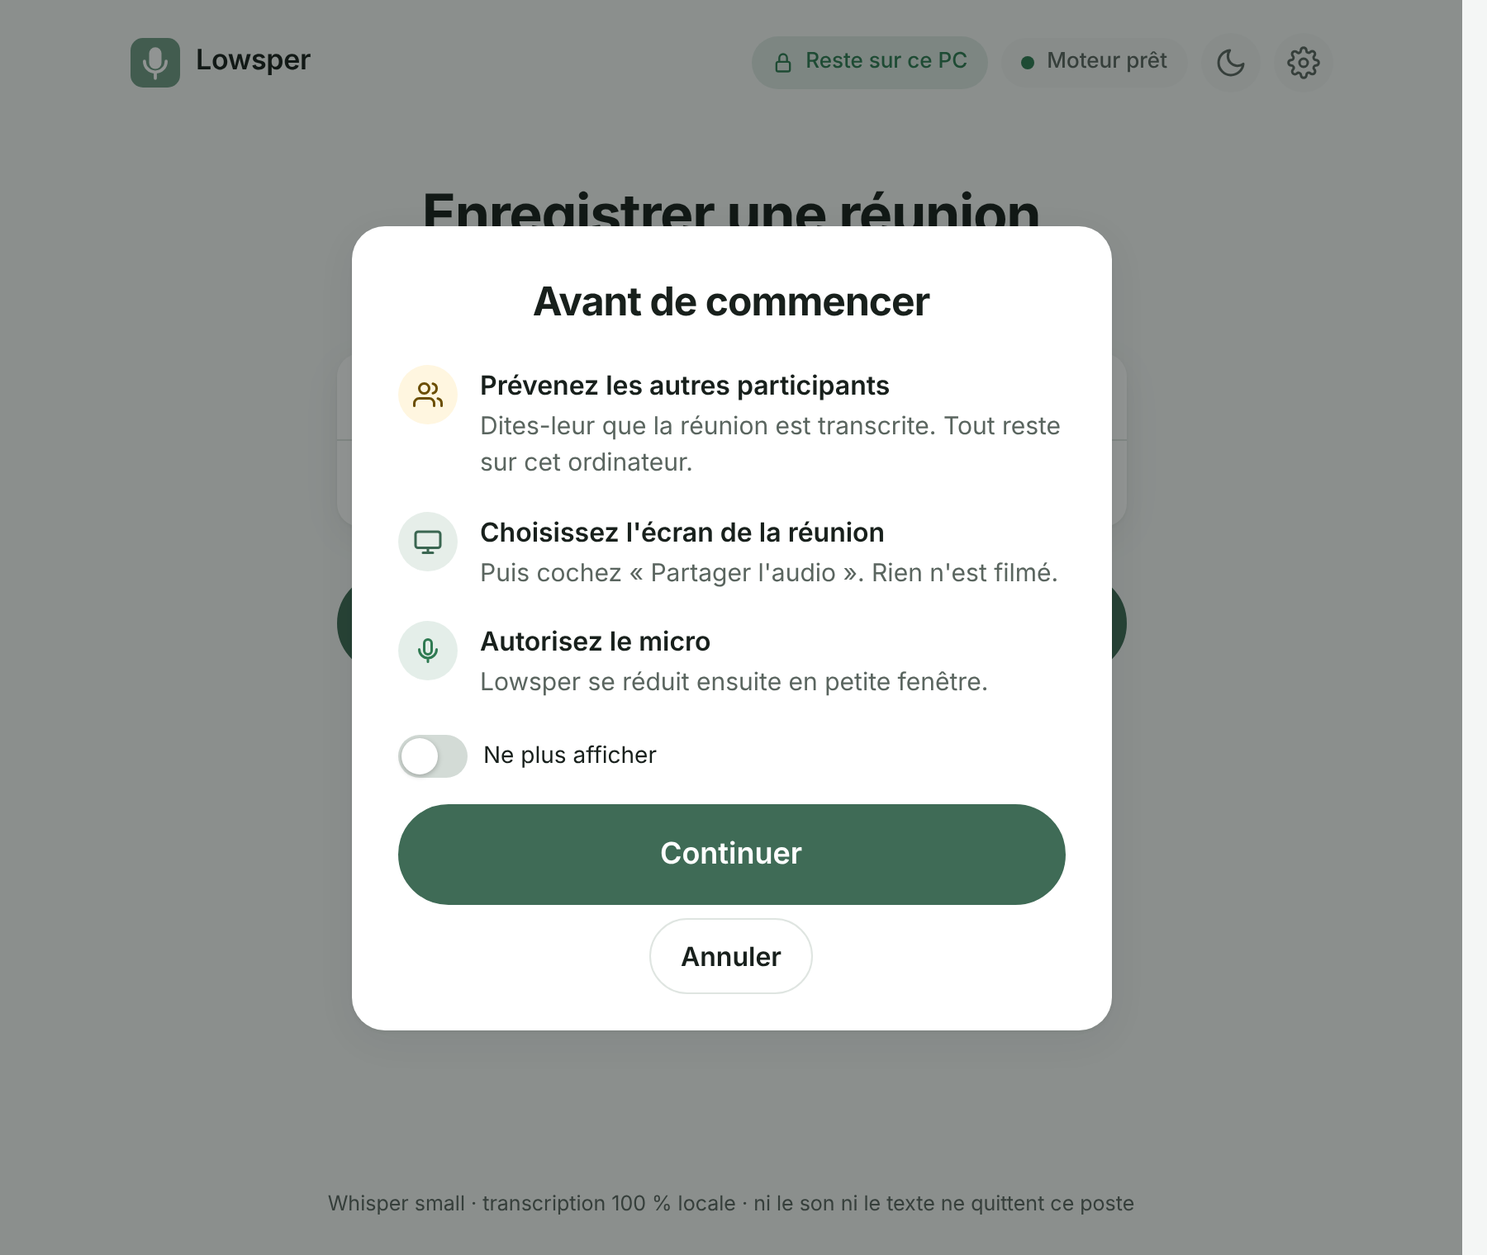
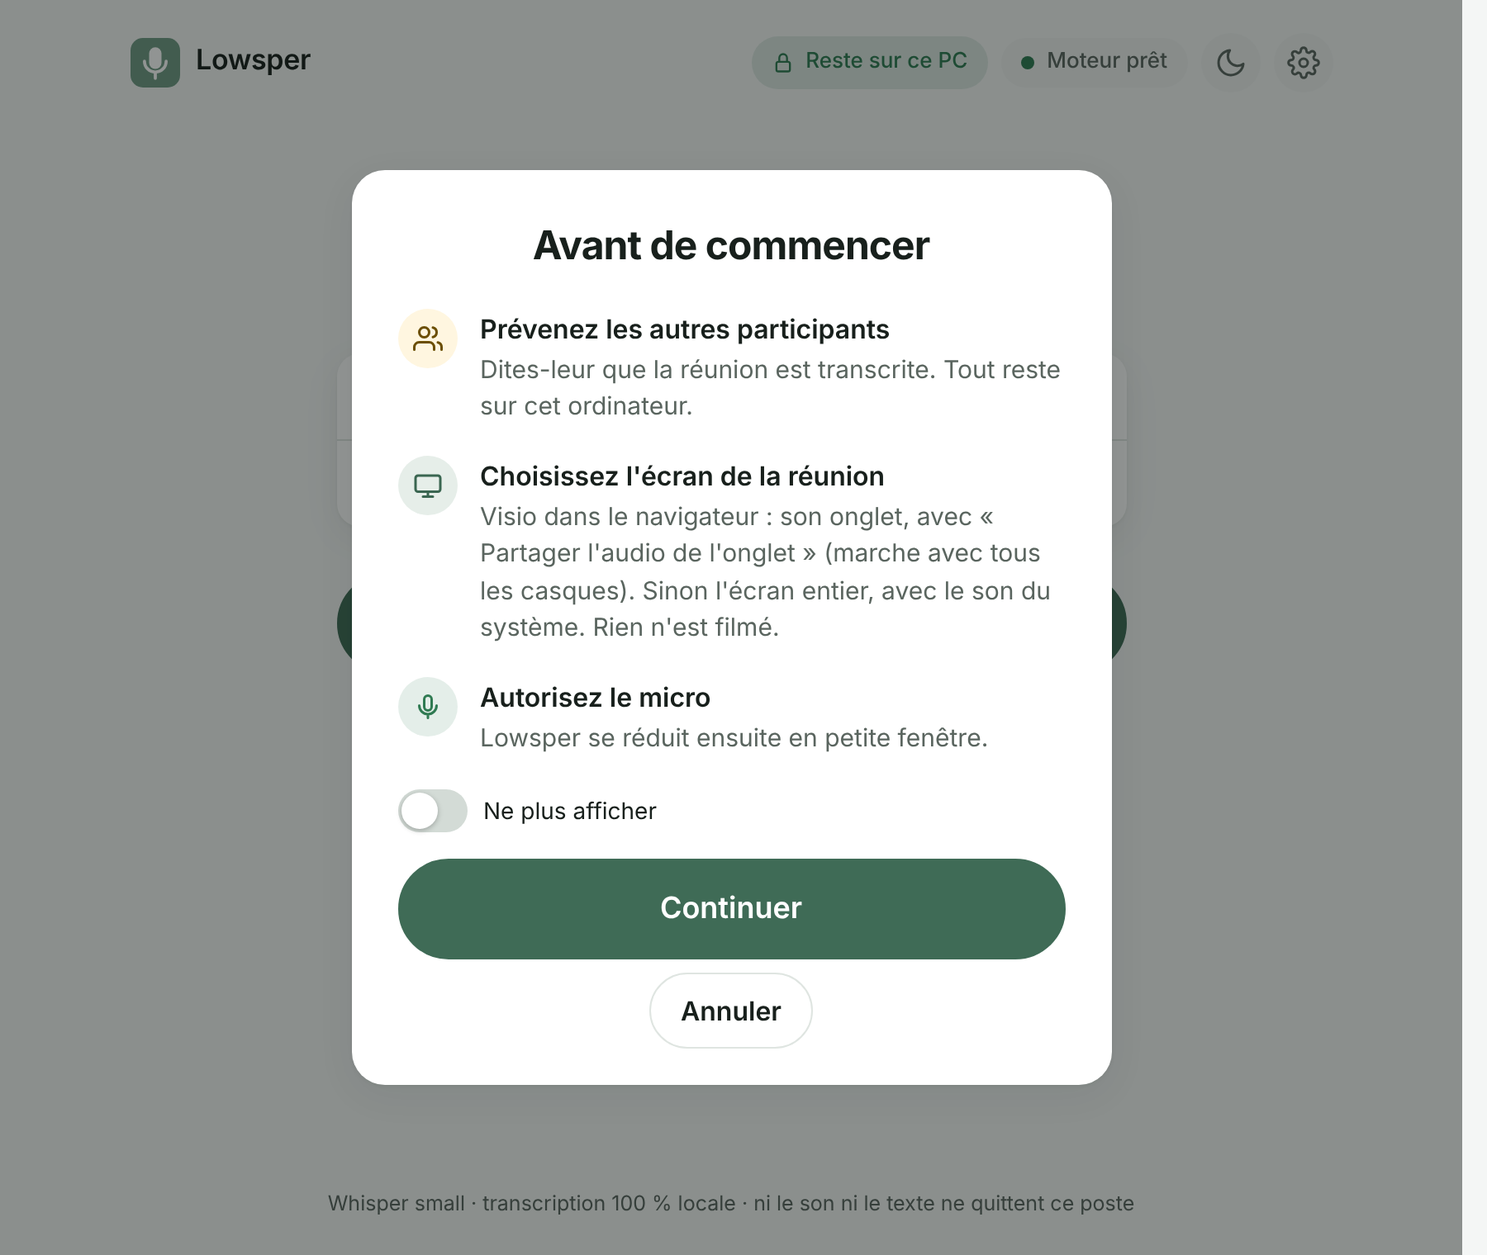
fix(capture): onglet de la visio quand Windows refuse le son, 4.5.2 (§47)
Claude-Session: https://claude.ai/code/session_01G6rbDDPsPmHWqGGBKuVKBw

Changed region(s): [[0.2178, 0.1237, 0.7467, 0.8658]]

diff --git a/app/js/i18n.js b/app/js/i18n.js
@@ -566,7 +566,8 @@
     'before.tell': 'Prévenez les autres participants',
     'before.tellSub': 'Dites-leur que la réunion est transcrite. Tout reste sur cet ordinateur.',
     'before.screen': "Choisissez l'écran de la réunion",
-    'before.screenSub': "Puis cochez « Partager l'audio ». Rien n'est filmé.",
+    'before.screenSub':
+      "Visio dans le navigateur : son onglet, avec « Partager l'audio de l'onglet » (marche avec tous les casques). Sinon l'écran entier, avec le son du système. Rien n'est filmé.",
     'before.mic': 'Autorisez le micro',
     'before.micSub': 'Lowsper se réduit ensuite en petite fenêtre.',
     'before.skip': 'Ne plus afficher',
@@ -623,6 +624,7 @@
     'rec.draftTitle': 'Transcription rapide provisoire : la version précise arrive dès que le moteur est disponible.',
     'rec.speaker': '{name} :',
     'rec.shareOthers': 'Partager le son des participants',
+    'rec.shareTab': "Partager l'onglet de la visio",
     'rec.othersCaptured': 'Son des participants capté.',
     'rec.noMic': 'Micro indisponible : seule la voix des participants est transcrite.',
     'rec.micOnly': 'Seul votre micro est capté (option « participants » désactivée).',
@@ -632,7 +634,7 @@
     'rec.shareCancelled': 'Partage annulé : seule votre voix est captée. ',
     'rec.othersFailed': "Le son des participants n'a pas pu être capté ({error}). ",
     'rec.othersStartFailed':
-      "Le navigateur n'a pas pu ouvrir le son de l'ordinateur ({error}). Cliquez sur « Partager le son des participants » : Lowsper réessaie avec des réglages plus simples. Si l'erreur revient, partagez plutôt l'onglet de la visio, en cochant « Partager l'audio de l'onglet ». ",
+      "Windows n'a pas laissé le navigateur capter le son de tout l'ordinateur ({error}). Partagez plutôt l'onglet de la visio ou de la vidéo : ce son est pris dans le navigateur, quel que soit votre casque. Pour une application (Teams, Jabber), « Partager le son des participants » propose aussi ses fenêtres. ",
     'rec.gap':
       'Un passage n’a pas pu être transcrit : il sera signalé dans le transcript, et vous pourrez le relancer à la fin.',
     'rec.slow':
@@ -1394,7 +1396,8 @@
     'before.tell': 'Tell the other people',
     'before.tellSub': 'Let them know the meeting is being transcribed. Everything stays on this computer.',
     'before.screen': 'Pick the meeting screen',
-    'before.screenSub': 'Then tick “Share audio”. Nothing is filmed.',
+    'before.screenSub':
+      'Meeting in the browser: its tab, with “Share tab audio” (works with every headset). Otherwise the entire screen, with system audio. Nothing is filmed.',
     'before.mic': 'Allow the microphone',
     'before.micSub': 'Lowsper then shrinks to a small window.',
     'before.skip': "Don't show again",
@@ -1450,6 +1453,7 @@
     'rec.draftTitle': 'Quick draft transcription: the accurate version comes as soon as the engine is free.',
     'rec.speaker': '{name}:',
     'rec.shareOthers': 'Share the sound of the other people',
+    'rec.shareTab': 'Share the meeting tab',
     'rec.othersCaptured': 'Sound of the other people captured.',
     'rec.noMic': 'Microphone unavailable: only the voices of the other people are transcribed.',
     'rec.micOnly': 'Only your microphone is captured (“other people” option turned off).',
@@ -1459,7 +1463,7 @@
     'rec.shareCancelled': 'Sharing cancelled: only your voice is captured. ',
     'rec.othersFailed': 'The sound of the other people could not be captured ({error}). ',
     'rec.othersStartFailed':
-      'The browser could not open the computer sound ({error}). Click “Share the sound of the other people”: Lowsper tries again with simpler settings. If the error comes back, share the meeting tab instead and tick “Share tab audio”. ',
+      'Windows did not let the browser capture the sound of the whole computer ({error}). Share the meeting or video tab instead: its sound is taken inside the browser, whatever your headset. For an application (Teams, Jabber), “Share the sound of the other people” also offers its windows. ',
     'rec.gap':
       'A passage could not be transcribed: it will be marked in the transcript, and you can try it again at the end.',
     'rec.slow':

diff --git a/app/js/app.js b/app/js/app.js
@@ -623,7 +623,9 @@
     let othersError = null;
     if (withOthers) {
       try {
-        others = await L.getSystemAudio();
+        // Après un échec du son de tout l'ordinateur, la fenêtre de choix s'ouvre sur les onglets
+        others = await L.getSystemAudio(store.get('lowsper.share.surface') === 'tab' ? 'tab' : 'screen');
+        rememberSurface(others);
       } catch (err) {
         othersError = err;
         journal('partage-son', {
@@ -1246,8 +1248,10 @@
       err &&
       (err.name === 'NotReadableError' || err.name === 'OverconstrainedError' || err.name === 'AbortError')
     ) {
-      // Le son de l'ordinateur n'a pas pu s'ouvrir : le prochain essai demande le strict minimum
+      // Le son de l'ordinateur n'a pas pu s'ouvrir : le prochain essai demande le strict minimum,
+      // et les prochaines réunions proposent d'abord les onglets (son pris dans le navigateur)
       app.othersStartFailed = true;
+      store.set('lowsper.share.surface', 'tab');
       msg = tr('rec.othersStartFailed', { error: err.message || err.name });
     } else {
       msg = tr('rec.othersFailed', { error: (err && err.message) || tr('start.unknownError') });
@@ -1256,11 +1260,19 @@
   }
 
   // Relance du partage audio en cours de réunion (nécessite un clic : on est dans un handler)
-  async function retryOthers() {
+  // Retient la surface qui a marché : un écran ou une fenêtre qui donne le son rétablit le choix
+  // par défaut ; un onglet garde la présélection des onglets.
+  function rememberSurface(stream) {
+    if (!stream) return;
+    journal('partage-son', { essai: stream._lowsperAttempt, surface: stream._lowsperSurface, ok: true });
+    if (stream._lowsperSurface === 'monitor' || stream._lowsperSurface === 'window')
+      store.set('lowsper.share.surface', 'screen');
+  }
+
+  async function retryOthers(mode) {
     try {
-      const simple = !!app.othersStartFailed;
-      const stream = await L.getSystemAudio(simple);
-      journal('partage-son', { essai: simple ? 'simple' : 'normal', ok: true });
+      const stream = await L.getSystemAudio(mode === 'tab' ? 'tab' : app.othersStartFailed ? 'simple' : 'screen');
+      rememberSurface(stream);
       attachSource('others', stream);
       setMeter('others', 'on');
       $('rec-notice').hidden = true;
@@ -1278,10 +1290,18 @@
     const el = $('rec-notice');
     el.textContent = text;
     if (retryFor === 'others' && navigator.mediaDevices.getDisplayMedia) {
-      const b = document.createElement('button');
-      b.textContent = tr('rec.shareOthers');
-      b.addEventListener('click', retryOthers);
-      el.appendChild(b);
+      // Deux chemins : l'onglet de la visio (son pris dans le navigateur, quel que soit le casque),
+      // ou l'écran entier et les fenêtres d'application (son passé par Windows)
+      for (const [key, mode] of [
+        ['rec.shareTab', 'tab'],
+        ['rec.shareOthers', 'screen'],
+      ]) {
+        const b = document.createElement('button');
+        b.textContent = tr(key);
+        b.dataset.mode = mode;
+        b.addEventListener('click', () => retryOthers(mode));
+        el.appendChild(b);
+      }
     }
     el.hidden = false;
   }

diff --git a/app/js/capture.js b/app/js/capture.js
@@ -636,27 +636,35 @@
   /**
    * Demande le partage d'écran pour récupérer le son de l'ordinateur (les participants), quelle
    * que soit la sortie : haut-parleurs, casque filaire, USB ou Bluetooth.
+   * mode (decision.md §46 et §47) :
+   *   - 'screen' (par défaut) : écran entier ou fenêtre, avec le son du système ou de la fenêtre ;
+   *   - 'simple' : le même, avec le strict minimum, après un échec ;
+   *   - 'tab' : la fenêtre de choix s'ouvre sur les onglets. Le son d'un onglet est pris dans le
+   *     navigateur, avant Windows : il ne dépend ni du casque ni de la sortie son.
+   * Toutes les surfaces restent proposées : le mode ne fait que présélectionner.
    * La vidéo est obligatoire pour la plupart des navigateurs : on la demande au minimum
-   * (1 image/s, petite taille) et on ne l'utilise jamais.
-   * simple : nouvel essai après un échec, sans aucune option facultative.
-   * Le son est demandé sans réglage (audio: true) : c'est la demande que tous les navigateurs
-   * savent satisfaire ; l'absence de traitement (anti-écho, gain) est tentée ensuite sur la piste.
+   * (1 image/s, petite taille) et on ne l'utilise jamais. Le son est demandé sans réglage
+   * (audio: true) ; l'absence de traitement (anti-écho, gain) est tentée ensuite sur la piste.
    * Retourne un MediaStream audio seul, ou lève une erreur explicite.
    */
-  Lowsper.getSystemAudio = async function (simple, md) {
+  Lowsper.getSystemAudio = async function (mode, md) {
     md = md || navigator.mediaDevices;
-    const stream = await md.getDisplayMedia(
-      simple
-        ? { video: true, audio: true, systemAudio: 'include' }
+    if (mode === true) mode = 'simple';
+    const small = { frameRate: 1, width: { max: 640 }, height: { max: 360 } };
+    const options =
+      mode === 'simple'
+        ? { video: true, audio: true, systemAudio: 'include', windowAudio: 'window' }
         : {
-            video: { frameRate: 1, width: { max: 640 }, height: { max: 360 } },
+            video: mode === 'tab' ? { ...small, displaySurface: 'browser' } : small,
             audio: true,
             systemAudio: 'include',
+            // Fenêtre d'une application (Teams, Jabber) : son de cette fenêtre plutôt que du système
+            windowAudio: 'window',
             selfBrowserSurface: 'exclude',
             surfaceSwitching: 'include',
             monitorTypeSurfaces: 'include',
-          }
-    );
+          };
+    const stream = await md.getDisplayMedia(options);
     const audio = stream.getAudioTracks();
     if (!audio.length) {
       stream.getTracks().forEach((t) => t.stop());
@@ -669,7 +677,10 @@
     const out = new MediaStream(audio);
     out._lowsperVideo = stream.getVideoTracks();
     out._lowsperProcessed = await tryConstraints(audio[0], OTHERS_WANTED);
-    out._lowsperAttempt = simple ? 'simple' : 'normal';
+    out._lowsperAttempt = mode || 'screen';
+    // Surface réellement choisie (monitor, window, browser), pour retenir ce qui marche
+    const video = stream.getVideoTracks()[0];
+    out._lowsperSurface = (video && video.getSettings && video.getSettings().displaySurface) || '';
     return out;
   };
 

diff --git a/Lowsper.html b/Lowsper.html
@@ -578,7 +578,7 @@
         </li>
         <li>
           <span class="step-ico" aria-hidden="true"><svg class="ico" viewBox="0 0 24 24"><rect x="2" y="4" width="20" height="13" rx="2"/><path d="M8 21h8M12 17v4"/></svg></span>
-          <span><strong data-i18n="before.screen">Choisissez l'écran de la réunion</strong><span class="fine" data-i18n="before.screenSub">Puis cochez « Partager l'audio ». Rien n'est filmé.</span></span>
+          <span><strong data-i18n="before.screen">Choisissez l'écran de la réunion</strong><span class="fine" data-i18n="before.screenSub">Visio dans le navigateur : son onglet, avec « Partager l'audio de l'onglet » (marche avec tous les casques). Sinon l'écran entier, avec le son du système. Rien n'est filmé.</span></span>
         </li>
         <li>
           <span class="step-ico ok" aria-hidden="true"><svg class="ico" viewBox="0 0 24 24"><path d="M12 3a3 3 0 0 0-3 3v6a3 3 0 0 0 6 0V6a3 3 0 0 0-3-3z"/><path d="M19 11a7 7 0 0 1-14 0M12 18v3"/></svg></span>

diff --git a/decision.md b/decision.md
@@ -3103,3 +3103,49 @@ l'ouverture des sources change, pas de mesure `npm run bench`.
 mainteneur sur le portable de référence (essai décrit dans le guide). Si Windows lui-même refuse le
 son, aucune page web ne peut le capter autrement ; il reste alors le partage de l'onglet de la
 visio, quand elle est dans le navigateur.
+
+## 47. Son des participants : l'onglet, chemin qui ne passe pas par Windows (4.5.2)
+
+**Contexte.** Après la 4.5.1 (§46), le mainteneur voit toujours « Could not start audio source »,
+sur un PC fixe Windows, avec un casque sans fil Logitech G733, dans Chrome et Brave, en partageant
+l'écran entier pendant une vidéo YouTube. La demande sans réglage ne suffit donc pas : c'est
+l'ouverture du son de Windows par le navigateur qui échoue. Exigence du mainteneur : ne rien
+changer aux réglages du casque ni de Windows ; Lowsper doit capter le son sortant et le son
+entrant avec tous les équipements.
+
+**Ce qu'une page web peut faire.** Le son de l'ordinateur n'est accessible que par le partage
+d'écran (`getDisplayMedia`), sous trois formes :
+| Surface | D'où vient le son | Dépend de la sortie son de Windows |
+|---|---|---|
+| Écran entier, « son du système » | Capture de la sortie son de Windows | Oui : c'est elle qui échoue ici |
+| Onglet, « audio de l'onglet » | Le navigateur lui-même, avant d'envoyer le son à Windows | **Non** |
+| Fenêtre (`windowAudio: 'window'`) | Le son de l'application de la fenêtre | Non vérifié sous Windows |
+Rapports de développeurs (non officiels) : la capture du son de Windows échoue notamment avec une
+sortie multicanal (surround 7.1), ce qu'offrent les casques de jeu. Non vérifié sur le PC du
+mainteneur, qui ne veut pas changer de format (exigence légitime : la qualité de son).
+
+**Retenu.**
+- Après un échec du son de tout l'ordinateur, le message propose d'abord **« Partager l'onglet de
+  la visio »** (fenêtre de choix présélectionnée sur les onglets, `displaySurface: 'browser'`), puis
+  « Partager le son des participants » (écran ou fenêtre).
+- Lowsper retient l'échec (`lowsper.share.surface`) : aux réunions suivantes, la fenêtre de choix
+  s'ouvre sur les onglets ; un écran ou une fenêtre qui donne le son rétablit le choix par défaut.
+  Toutes les surfaces restent proposées : ce n'est qu'une présélection.
+- Pour les applications de visio, `windowAudio: 'window'` demande le son de la fenêtre choisie
+  plutôt que celui du système (indication que le navigateur peut ignorer).
+- « Avant de commencer » et le guide expliquent les deux cas : visio dans le navigateur, son
+  onglet ; visio en application, l'écran entier ou sa fenêtre.
+
+**Vérifié** (Chromium sous Linux, écran virtuel, conteneur **sans aucune carte son**) : un onglet lit
+un enregistrement fictif ; `Lowsper.getSystemAudio('tab')` donne la piste « Tab audio », niveau
+efficace 0,28 pendant la lecture, presque nul onglet en pause : le son vient bien de l'onglet, sans
+sortie son du système. Chaîne complète : avec l'onglet présélectionné, la réunion transcrit le son
+de l'onglet en direct (« Julien, tu peux commencer... »). Premier partage refusé avec
+`NotReadableError` : les deux boutons s'affichent, « Partager l'onglet de la visio » capte le son et
+retient la préférence. `npm test` et `npm run test:e2e` verts.
+
+**Limites.** Non vérifié sous Windows, ni dans Brave (même moteur), ni avec le G733. Une visio en
+application (Teams installé, Jabber) n'a pas d'onglet : si le son du système et celui de la
+fenêtre échouent tous deux, aucune page web ne peut capter son son ; seul un composant installé le
+pourrait, ce que la contrainte n° 2 interdit. Le chemin du direct (traitement, moteur) ne change
+pas : pas de mesure `npm run bench`.

diff --git a/docs/guide.md b/docs/guide.md
@@ -84,8 +84,11 @@ réunion qui travaille hors ligne.
    ![Accueil : nom de la réunion, emplacement de la note, Démarrer](images/accueil.png)
 6. La fenêtre **« Avant de commencer »** rappelle les trois étapes ; cliquez sur **« Continuer »** :
    - **prévenez les participants** que la réunion est transcrite ;
-   - le navigateur propose un **partage d'écran** : choisissez l'écran entier (ou l'onglet de la
-     réunion) et **cochez « Partager l'audio »**. Seul le son est utilisé, rien n'est filmé ;
+   - le navigateur propose un **partage d'écran**. Visio dans le navigateur (Teams, Meet, Webex
+     en ligne...) : choisissez l'**onglet de la visio** et cochez **« Partager l'audio de
+     l'onglet »** ; ce son est pris dans le navigateur, il marche avec tous les casques. Visio dans
+     une application : choisissez l'**écran entier** et cochez **« Partager aussi le son du
+     système »**. Seul le son est utilisé, rien n'est filmé ;
    - autorisez le **micro**.
    Pour les habitués, « Ne plus afficher » supprime cette fenêtre.
 
@@ -408,14 +411,16 @@ ou l'onglet de la visio qui est partagé. Cliquez sur « Comment corriger », pu
 nouveau, avec le son. Si vous présentez seul pendant longtemps, l'alerte peut aussi apparaître :
 elle disparaît dès que quelqu'un d'autre parle.
 
-**« Le navigateur n'a pas pu ouvrir le son de l'ordinateur (Could not start audio source) ».**
-C'est Chrome ou Edge qui n'a pas réussi à ouvrir le son de Windows, quels que soient le casque,
-les haut-parleurs ou le micro. Depuis la 4.5.1, Lowsper demande ce son sans aucun réglage
-obligatoire, ce qui évite la cause connue de ce message. S'il apparaît quand même, cliquez sur
-**« Partager le son des participants »** : Lowsper réessaie avec la demande la plus simple
-possible. Si l'erreur revient, et que la visio est dans le navigateur, partagez l'**onglet** de la
-visio en cochant « Partager l'audio de l'onglet » : ce son ne passe pas par Windows. Le micro, lui,
-est essayé avec ses réglages, puis sans, puis chacun des autres micros du PC.
+**« Windows n'a pas laissé le navigateur capter le son de tout l'ordinateur (Could not start audio source) ».**
+Le son de l'écran entier passe par la sortie son de Windows ; sur certains PC (casques de jeu
+en son surround, par exemple), Chrome et Edge n'arrivent pas à l'ouvrir, et une page web ne peut
+rien y changer. Cliquez sur **« Partager l'onglet de la visio »** et choisissez l'onglet de la
+visio ou de la vidéo : ce son est pris dans le navigateur, avant Windows, il marche avec tous
+les casques et toutes les sorties son. Lowsper s'en souvient : aux réunions suivantes, la
+fenêtre de partage s'ouvre directement sur les onglets (vous pouvez toujours choisir l'écran).
+Pour une visio dans une application, « Partager le son des participants » propose aussi ses
+fenêtres : Chrome peut prendre le son de la fenêtre choisie (non vérifié sous Windows). Le micro,
+lui, est essayé avec ses réglages, puis sans, puis chacun des autres micros du PC.
 
 **Où régler le nombre de personnes ?**
 Dans les paramètres, rubrique « Transcription » : **« Nombre de personnes dans vos réunions »**.

diff --git a/AGENTS.md b/AGENTS.md
@@ -155,7 +155,7 @@ Changer de révision d'un modèle : `node fetch-model.mjs <id> --update`, puis r
 | `app/js/browser.js` | Reconnaissance du navigateur (Brave, Edge, Chrome, Firefox) et messages quand l'écriture dans un dossier est impossible |
 | `app/js/engine.js` | Chargement des fichiers embarqués, moteur Whisper dans un Worker (glossaire, langue, reprise, boucles) |
 | `app/js/analyzer.js` | Détection de parole (Silero) et empreintes vocales (WeSpeaker), dans des Workers |
-| `app/js/capture.js` | Micro et partage d'écran, rééchantillonnage 16 kHz, découpage en blocs, son gardé en mémoire |
+| `app/js/capture.js` | Micro et partage d'écran (ouverts sans réglage obligatoire, plusieurs essais, onglet présélectionné après un refus de Windows, `decision.md` §46 et §47), rééchantillonnage 16 kHz, découpage en blocs, son gardé en mémoire |
 | `app/js/audiofile.js` | Fichiers importés : lecteurs de conteneur (WAV, MP3, AAC, M4A, Ogg, WebM), décodage WebCodecs en flux |
 | `app/js/speakers.js` | Distinction, regroupement et mémoire des voix (cinq empreintes au plus par personne, comparaison à la plus proche, `decision.md` §37) ; voix du micro (anti-écho) |
 | `app/js/extract.js` | Compte rendu extractif : phrases de décision, d'action et de question ouverte recopiées mot pour mot (règles en français et en anglais, `decision.md` §40) |

diff --git a/CHANGELOG.md b/CHANGELOG.md
@@ -13,6 +13,19 @@ Les détails techniques et les mesures sont dans `decision.md`.
 
 ## [Non publié]
 
+## [4.5.2] - 2026-11-08
+
+Rien à faire en passant à cette version : copiez `app\models`, `app\reglages.txt` et `Notes` comme
+d'habitude.
+
+### Corrigé
+- **Son des participants capté avec tous les casques** : quand Windows refuse le son de tout
+  l'ordinateur (« Could not start audio source », vu avec un casque de jeu sans fil), Lowsper
+  propose « Partager l'onglet de la visio » : le son de l'onglet est pris dans le navigateur, sans
+  passer par la sortie son de Windows. Lowsper s'en souvient et ouvre ensuite la fenêtre de partage
+  sur les onglets. Pour une visio en application, la fenêtre choisie peut donner son propre son.
+  La fenêtre « Avant de commencer » explique les deux cas (decision.md §47).
+
 ## [4.5.1] - 2026-11-08
 
 Rien à faire en passant à cette version : copiez `app\models`, `app\reglages.txt` et `Notes` comme

diff --git a/docs/lots.md b/docs/lots.md
@@ -40,7 +40,8 @@ Chaque lot respecte `AGENTS.md`, et en particulier :
 Publication : 4.3.0 pour le lot C1 (paquet joint après coup), 4.4.0 pour le lot C2, avec le
 lancement manuel du workflow de release (`decision.md` §42).
 4.5.0 pour le lot Étude, avec un paquet sans dossier en double (`decision.md` §45). Correctif
-4.5.1 : son de l'ordinateur et micro captés avec tous les équipements (`decision.md` §46).
+4.5.1 : son de l'ordinateur et micro captés avec tous les équipements (`decision.md` §46). Correctif 4.5.2 :
+l'onglet de la visio, son pris dans le navigateur, quand Windows refuse le son (`decision.md` §47).
 
 Après la refonte : correctif 4.2.1 (dossier Lowsper : accès d'une ancienne version oublié, chemin
 de nouveau affiché à l'installation, dossier parent accepté ; `decision.md` §38). Correctif 4.2.2 :
